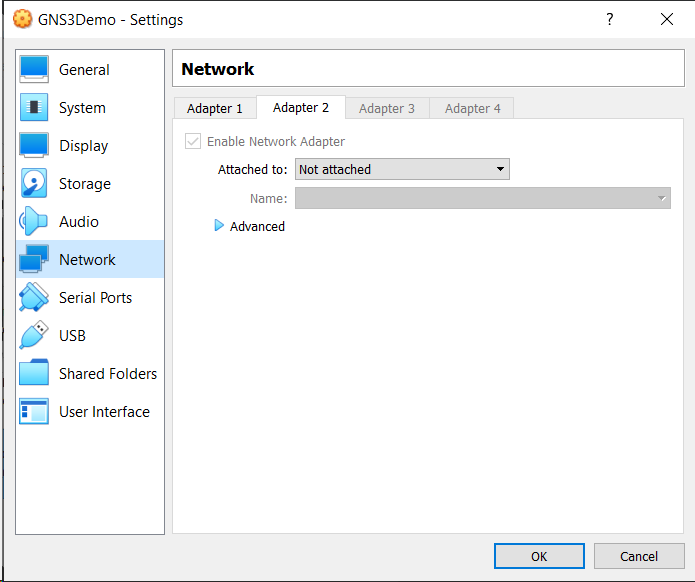
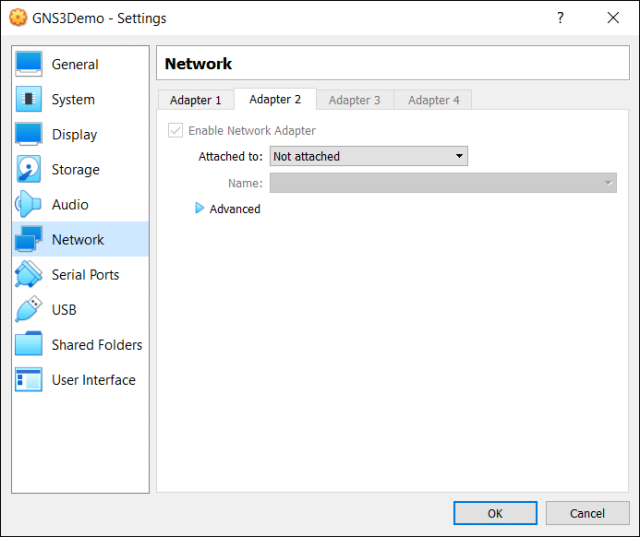
Corrected and expanded on install instructions in README.md.

diff --git a/README.md b/README.md
@@ -6,7 +6,7 @@
 
 ## Introduction
 
-Recently, for personal and professional reasons (CCNA and CompTIA , anyone?), I've delved into programming networking devices from within and without. Normally, in order to interact with a device like a switch, you must connect to it physically, via a serial or Ethernet cable, access the command-line interface (CLI), and enter commands manually or upload a script, usually written in Cisco's Tool Command Language (TCL).
+Recently, for personal and professional reasons, I've delved into programming networking devices from within and without. Normally, in order to interact with a device like a switch, you must connect to it physically, via a serial or Ethernet cable, access the command-line interface (CLI), and enter commands manually or upload a script, usually written in Cisco's Tool Command Language (TCL).
 
 This is fine if you have one switch or router, but if you have dozens or hundreds of devices, this can become a full-time job. Wouldn't it be easier to write an application, let's say in Python, that can connect to a device and enter the commands for you? The answer is yes; you can write such a script, especially with Python, using modules such as subprocess and pexpect.
 
@@ -18,29 +18,62 @@ This tutorial is broken down into three parts:
 - [Setting up the environment](#setting-up-the-environment "Setting up the environment")
 - [Running the Labs](#running-the-labs "Running the Labs")
 
->**NOTE** - The focus of this tutorial is to use GNS3 to test our scripts, not installing operating systems or creating virtual machines; there are already tons of websites dedicated to setting up OS's and VM's. However, whether you use VMWare or VirtualBox, make sure you add an additional network interface to your system:
-> 
-> ![Network Settings](images/gns3_00.png)
-> 
-> ![Network Settings](images/gns3_00a.png)
-
 >**NOTE** - Many thanks to David Bombal, Paul Browning, and many other incredible coders and network gurus (you know who you are :thumbsup: ).
 
 -----
 
 ## Installing GNS3 in CentOS
 
-Setting up GNS3 in Ubuntu and Debian is pretty simple: check out [https://docs.gns3.com/docs/getting-started/installation/linux](https://docs.gns3.com/docs/getting-started/installation/linux "GNS3 Linux Install").
+The makers of GNS3 did a great job explaining how to install their network simulator on Windows; check out [https://docs.gns3.com/docs/getting-started/installation/windows/](https://docs.gns3.com/docs/getting-started/installation/windows/ "GNS3 Windows Install"). Setting up GNS3 in Ubuntu and Debian is pretty straight forward as well: check out [https://docs.gns3.com/docs/getting-started/installation/linux](https://docs.gns3.com/docs/getting-started/installation/linux "GNS3 Linux Install").
 
 However, we will be using CentOS 7.9 for labs and demos in this repository, and GNS3 doesn't work straight-out-of-the-box with Fedora, Red Hat Linux (RHEL), and CentOS.
 
->**NOTE**
->
->Why are we using CentOS? First, this is my daily OS. Second...
-> - Approximately [20% of servers running Linux](https://w3techs.com/technologies/details/os-linux "Usage statistics of Linux for websites") use one of these operating systems, and RHEL is second, behind Microsoft, in [paid enterprise OS subscriptions](https://www.idc.com/getdoc.jsp?containerId=US46684720 "Worldwide Server Operating Environments Market Shares, 2019").
-> - Many companies and government agencies, such as NASA and the DOD, use Red Hat Linux (i.e., the "commercial" version of CentOS), since it is a trusted OS which is [Protection Profile (PP) compliant](https://www.commoncriteriaportal.org/products/ "Certified Common Criteria Products").
+>**NOTE** - Why are we using CentOS? First, this is my daily OS. Second...
+>- Approximately [20% of servers running Linux](https://w3techs.com/technologies/details/os-linux "Usage statistics of Linux for websites") use Fedora, Red Hat Linux (RHEL), and CentOS. RHEL is also second, behind Microsoft, in [paid enterprise OS subscriptions](https://www.idc.com/getdoc.jsp?containerId=US46684720 "Worldwide Server Operating Environments Market Shares, 2019").
+>- Many companies and government agencies, such as NASA and the DOD, use Red Hat Linux (i.e., the "commercial" version of CentOS), since it is a trusted OS which is [Protection Profile (PP) compliant](https://www.commoncriteriaportal.org/products/ "Certified Common Criteria Products").
 
-While there were a lot of good posts and articles on how to install GNS3 on CentOS, each of them were slightly different, so we distilled them into [one shell script](gns3_setup_centos "CentOS Setup Script"). To run this script, make sure you assign executable permissions to the file first (i.e., "chmod +x [gns3_setup_centos.sh](gns3_setup_centos "CentOS Setup Script")). We also recommend you look at the comments in the script, so you can become familiar with GNS3's dependencies.
+To get started, download the latest ISO image of CentOS 7 from [the CentOS download page](https://www.centos.org/download/ "Download") and install it in a virtual machine. If you are not familiar with creating virtual machines, we recommend you review the instructions on the following sites:
+
+- [Oracle VM VirtualBox User Manual](https://www.virtualbox.org/manual/ "Oracle VM VirtualBox User Manual")
+
+- [VMware Workstation Player Documentation](https://docs.vmware.com/en/VMware-Workstation-Player/index.html "VMware Workstation Player Documentation")
+
+>**NOTE** - The focus of this tutorial is to use GNS3 to test our scripts, not to install operating systems or create virtual machines; there are already tons of websites dedicated to setting up OS's and VM's. However, whether you use VMWare or VirtualBox, make sure you:
+> 
+> - Allocate 2048 MB of RAM to your machine  (e.g., in VirtualBox...):
+> 
+> ![Memory size](images/gns3_00b.png "Memory size")
+>  
+> - Allocate 16GB of hard disk space to your machine (e.g., in VirtualBox...):
+> 
+> ![File location and size](images/gns3_00c.png "File location and size")
+> 
+> - Allocate two processors to your machine  (e.g., in VirtualBox...):
+> 
+> ![Settings -> System](images/gns3_00d.png "Settings -> System")
+> 
+> - Add an additional network interface to your system:
+> 
+> ![Network Settings](images/gns3_00.png)
+> 
+> ![Network Settings](images/gns3_00a.png)
+
+Once you have finished creating your virtual machine, open a Terminal, go to a directory of your choice, and clone this repository:
+
+```
+git clone https://github.com/garciart/Automation.git
+```
+
+While there are a lot of good posts and articles on how to install GNS3 on CentOS, each of them are slightly different, so we distilled them into [one shell script](gns3_setup_centos "CentOS Setup Script"). We recommend you open the script in an editor, and look at its commands and comments, so you can become familiar with GNS3's dependencies.
+
+To run this script, make sure you assign executable permissions to the file first (i.e., "chmod +x [gns3_setup_centos.sh](gns3_setup_centos "CentOS Setup Script")).
+
+```
+sudo chmod +x gns3_setup_centos.sh
+sudo ./gns3_setup_centos.sh
+```
+
+Check the output for any errors. If there are none, continue to [Setting up the environment](#setting-up-the-environment "Setting up the environment").
 
 -----
 
